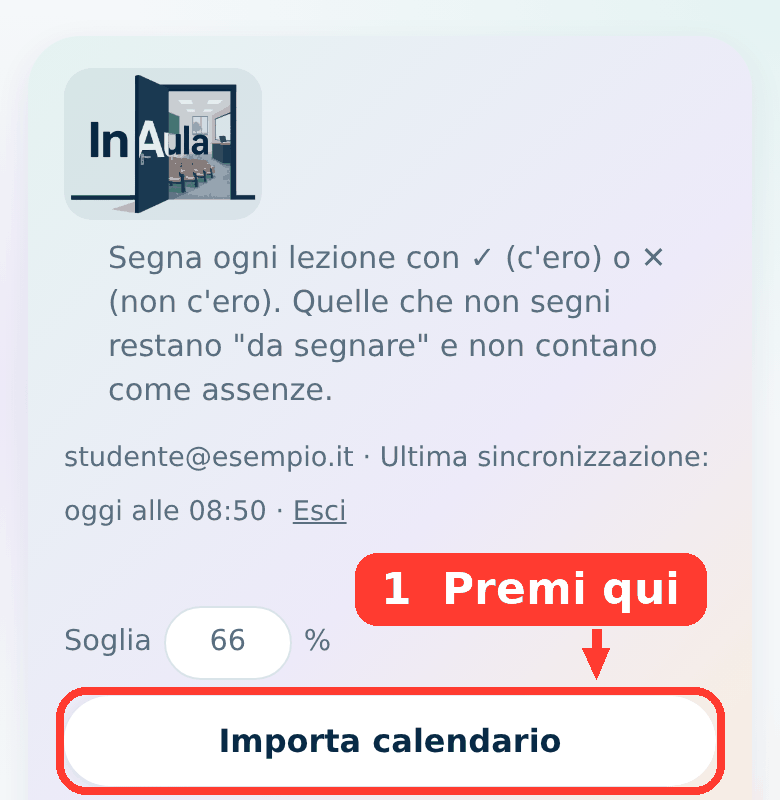
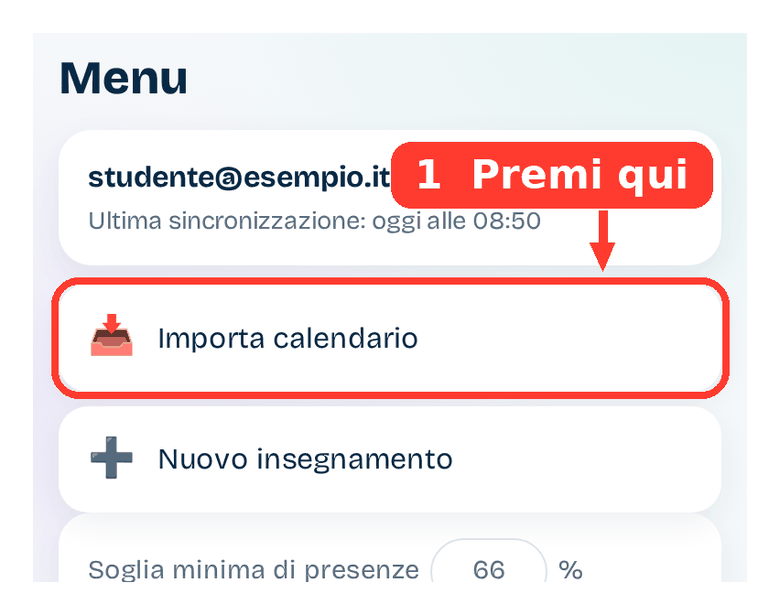
Add files via upload

Changed region(s): [[0.0308, 0.0309, 0.9538, 0.6797], [0.0615, 0.6797, 0.9846, 1.0], [0.7385, 0.0, 1.0, 0.3089]]

diff --git a/index.html b/index.html
@@ -3,6 +3,7 @@
 <head>
 <meta charset="utf-8">
 <meta name="robots" content="noindex,nofollow">
+<script>try{var t=localStorage.getItem("inaula-theme");if(t==="light"||t==="dark")document.documentElement.setAttribute("data-theme",t)}catch(e){}</script>
 <link rel="icon" type="image/png" sizes="192x192" href="icon-192.png">
 <link rel="apple-touch-icon" href="apple-touch-icon.png">
 <link rel="manifest" href="manifest.webmanifest">
@@ -105,7 +106,7 @@ label.ck{display:flex;align-items:center;gap:8px}label.ck input{width:auto}
 .row{display:flex;gap:8px;justify-content:flex-end;margin-top:14px;flex-wrap:wrap}
 .map{display:grid;gap:4px;padding:10px 0;border-top:1px solid var(--ln)}
 [hidden]{display:none!important}
-@media (max-width:520px){main{padding:18px 14px 130px}.bar{width:100%}.thr{flex:1 0 100%}.bar .btn{flex:1 1 auto}}
+@media (max-width:520px){main{padding:18px 14px 160px}.bar{width:100%}.thr{flex:1 0 100%}.bar .btn{flex:1 1 auto}}
 .loginbox{max-width:380px;margin-top:18px}
 .lnk{border:0;background:none;text-decoration:underline;padding:8px 0;color:var(--mu);cursor:pointer}
 body{background:var(--bgimg),var(--bg);background-attachment:fixed}
@@ -161,31 +162,85 @@ header{background:var(--hg);border-radius:26px;padding:16px 18px 18px;box-shadow
 dialog h4{margin:14px 0 4px;font-size:1rem}
 .rd{display:flex;gap:16px;flex-wrap:wrap;margin:6px 0}
 .rd label{margin:0;flex-direction:row}
+.hero .hi{font-size:1.6rem;font-weight:800;margin:6px 0 0}
+.hero .tag{margin:2px 0 4px;color:var(--mu)}
+.vt{margin:6px 0 10px;font-size:1.6rem;font-weight:800}
+.bar2{display:flex;gap:8px;flex-wrap:wrap;margin-bottom:8px}
+.mcard{background:var(--sf);border-radius:18px;padding:14px 16px;box-shadow:var(--sh);margin:0 0 10px}
+.menu{display:grid;gap:8px}
+.mi{display:flex;align-items:center;gap:12px;width:100%;text-align:left;background:var(--sf);border:0;border-radius:16px;padding:14px 16px;font:inherit;color:var(--ink);box-shadow:var(--sh);cursor:pointer}
+.mi i{font-style:normal;font-size:1.3rem}
+.mi[hidden]{display:none}
+.seg{display:flex;gap:4px;margin:0 0 12px;background:color-mix(in srgb,var(--mu) 13%,var(--sf));padding:4px;border-radius:999px}
+.seg button{flex:1;border:0;background:none;padding:8px 10px;border-radius:999px;font:inherit;font-weight:600;color:var(--mu);cursor:pointer}
+.seg button.on{background:var(--sf);color:var(--ink);box-shadow:var(--sh)}
+.dh{margin:14px 0 4px;font-size:.95rem;color:var(--mu);text-transform:capitalize}
+.wk{display:flex;justify-content:space-between;align-items:center;margin:0 0 6px}
+.wk .btn{padding:6px 16px}
+#nav{position:fixed;left:50%;transform:translateX(-50%);bottom:calc(10px + env(safe-area-inset-bottom,0px));width:min(520px,calc(100% - 20px));display:flex;justify-content:space-around;gap:4px;background:var(--sf);border-radius:24px;box-shadow:0 6px 24px rgba(11,43,74,.20);padding:6px;z-index:8}
+#nav button{flex:1;border:0;background:none;color:var(--mu);font:inherit;font-size:.72rem;padding:6px 2px;border-radius:18px;cursor:pointer;display:grid;gap:2px;justify-items:center}
+#nav button span{font-size:1.3rem;line-height:1}
+#nav button.on{background:color-mix(in srgb,#6DB3AB 24%,var(--sf));color:var(--ink);font-weight:700}
+.fabs{bottom:calc(88px + env(safe-area-inset-bottom,0px))}
+#toast{bottom:calc(88px + env(safe-area-inset-bottom,0px));right:150px}
+.foot{display:none}
+header.hero{display:block}
+.hero .brand{display:block}
 </style>
 </head>
 <body>
 <main id="app" hidden>
-<header>
-  <div>
-    <h1 class="brand"><img class="logo" src="logo.png" alt="InAula"></h1>
-    <p class="sub">Segna ogni lezione con ✓ (c'ero) o ✕ (non c'ero). Quelle che non segni restano "da segnare" e non contano come assenze.</p>
-    <p class="meta"><span id="who"></span> <span id="sync">Connessione…</span> · <button class="lnk" data-act="acct">Account</button> · <button class="lnk" id="out">Esci</button></p>
-  </div>
-  <div class="bar">
-    <label class="thr">Soglia <input id="thr" type="number" min="1" max="100" value="66"> %</label>
-    <button class="btn" data-act="imp">Importa calendario</button>
-    <button class="btn pri" data-act="new">Nuovo insegnamento</button>
-    <button class="btn" data-act="upd" id="updb" hidden>🔄 Aggiorna orario</button>
-  </div>
+<section id="v-home">
+<header class="hero">
+  <h1 class="brand"><img class="logo" src="logo.png" alt="InAula"></h1>
+  <p class="hi" id="hello">Ciao! 👋</p>
+  <p class="tag">Segna le lezioni a cui vai: al resto pensa InAula.</p>
+  <p class="meta"><span class="syn">Connessione…</span></p>
 </header>
+<div id="namecard"></div>
 <div id="warn"></div>
 <section class="today" id="today"></section>
+<div id="startcard"></div>
+<div class="fbcard"><div><b>💬 Cosa vorresti che InAula facesse per te?</b><br><span class="meta">Scrivi una funzione che ti sarebbe utile oppure segnala un problema: ti leggo davvero.</span></div><button class="btn pri" data-act="fb">Scrivi un messaggio</button></div>
+</section>
+<section id="v-courses" hidden>
+<h2 class="vt">Insegnamenti</h2>
+<div class="bar2"><button class="btn pri" data-act="new">Nuovo insegnamento</button><button class="btn" data-act="imp">Importa calendario</button></div>
 <p class="legend"><span><i style="background:conic-gradient(#6DB3AB,#A29CDB,#7FB0DC,#E2BC7C,#98C08E,#6DB3AB)"></i>Presenze (nel colore dell'insegnamento)</span><span><i style="background:var(--no)"></i>Assenze segnate</span><span><i style="background:var(--wa);opacity:.5"></i>Da segnare</span><span><i style="background:var(--rs)"></i>Lezioni restanti</span><span>La tacca sull'anello segna il minimo da raggiungere, arrotondato per eccesso.</span></p>
 <div class="grid" id="grid"></div>
 <div id="archive"></div>
-<div class="fbcard"><div><b>💬 Cosa vorresti che InAula facesse per te?</b><br><span class="meta">Scrivi una funzione che ti sarebbe utile oppure segnala un problema: ti leggo davvero.</span></div><button class="btn pri" data-act="fb">Scrivi un messaggio</button></div>
-<p class="foot"><button class="lnk" data-act="fb">Suggerimenti</button> · <button class="lnk" data-act="legal" data-s="p">Privacy</button> · <button class="lnk" data-act="legal" data-s="t">Termini</button> · <button class="lnk" data-act="legal" data-s="c">Contatti</button></p>
-<div class="fabs"><button class="fab fb" data-act="fb">💬 Scrivici</button><button class="fab" data-act="guide" aria-label="Apri la guida">? Guida</button></div>
+</section>
+<section id="v-menu" hidden>
+<h2 class="vt">Menu</h2>
+<div class="mcard"><b id="who"></b><br><span class="syn meta">Connessione…</span></div>
+<div class="menu">
+  <button class="mi" data-act="imp"><i>📥</i>Importa calendario</button>
+  <button class="mi" data-act="upd" id="updb" hidden><i>🔄</i>Aggiorna orario</button>
+  <button class="mi" data-act="new"><i>➕</i>Nuovo insegnamento</button>
+</div>
+<h3 class="dh">Impostazioni</h3>
+<div class="mcard">
+  <label class="thr">Soglia minima di presenze <input id="thr" type="number" min="1" max="100" value="66"> %</label>
+  <div class="meta" style="margin:10px 0 4px">Aspetto</div>
+  <div class="rd"><label class="ck"><input type="radio" name="thm" value="auto" checked> Automatico</label><label class="ck"><input type="radio" name="thm" value="light"> Chiaro</label><label class="ck"><input type="radio" name="thm" value="dark"> Scuro</label></div>
+</div>
+<div class="menu" style="margin-top:12px">
+  <button class="mi" data-act="acct"><i>👤</i>Il mio account</button>
+  <button class="mi" data-act="fb"><i>💬</i>Scrivici</button>
+  <button class="mi" data-act="guide"><i>❓</i>Guida</button>
+  <button class="mi" data-act="legal" data-s="p"><i>🔒</i>Privacy</button>
+  <button class="mi" data-act="legal" data-s="t"><i>📄</i>Termini e avvertenze</button>
+  <button class="mi" data-act="legal" data-s="c"><i>✉</i>Contatti</button>
+  <button class="mi" id="out"><i>🚪</i>Esci</button>
+</div>
+</section>
+<nav id="nav" aria-label="Navigazione principale">
+  <button data-act="tab" data-s="home" class="on"><span>🏠</span>Oggi</button>
+  <button data-act="tab" data-s="courses"><span>📚</span>Insegnamenti</button>
+  <button data-act="guide"><span>❓</span>Guida</button>
+  <button data-act="tab" data-s="menu"><span>☰</span>Menu</button>
+</nav>
+<div class="fabs"><button class="fab fb" data-act="fb">💬 Scrivici</button></div>
 </main>
 <main id="auth">
   <h1 class="brand"><img class="logo" src="logo.png" alt="InAula"></h1>
@@ -224,7 +279,7 @@ dialog h4{margin:14px 0 4px;font-size:1rem}
 <p><b>Dove sono i dati.</b> Sui server di Google situati negli Stati Uniti. Il trasferimento avviene con le garanzie previste dal GDPR offerte dal fornitore (per esempio le clausole contrattuali standard).</p>
 <p><b>Per quanto tempo.</b> Finché l'account esiste. Con "Elimina il mio account" cancelli account e dati; copie tecniche di sicurezza presso il fornitore possono restare per un breve periodo. Se il servizio dovesse chiudere ti verrà dato un avviso e potrai scaricare i tuoi dati.</p>
 <p><b>I tuoi diritti.</b> Accesso, rettifica, cancellazione, limitazione, portabilità e opposizione. Molti li eserciti da solo dal menu <b>Account</b> (modifica il nome, scarica i tuoi dati, elimina l'account); per gli altri scrivi a <span class="ce"></span>. Puoi anche presentare reclamo al Garante per la protezione dei dati personali (garanteprivacy.it).</p>
-<p><b>Cookie e tecnologie simili.</b> InAula usa solo strumenti tecnici necessari: la memoria del browser per mantenere l'accesso (se scegli "Ricordami") e una copia locale dei tuoi dati per usare il sito anche senza rete. Nessun cookie di profilazione o di statistica. Il carattere del sito è ospitato dal sito stesso, non viene caricato da servizi esterni.</p>
+<p><b>Cookie e tecnologie simili.</b> InAula usa solo strumenti tecnici necessari: la memoria del browser per mantenere l'accesso (se scegli "Ricordami") una copia locale dei tuoi dati per usare il sito anche senza rete e la tua preferenza di aspetto (chiaro o scuro). Nessun cookie di profilazione o di statistica. Il carattere del sito è ospitato dal sito stesso, non viene caricato da servizi esterni.</p>
 <p><b>Chi può usarlo.</b> Il servizio è destinato a studenti maggiorenni.</p>
 </div></details>
 <details class="gs" id="ls_t"><summary>Termini e avvertenze</summary><div class="gb">
@@ -247,6 +302,7 @@ dialog h4{margin:14px 0 4px;font-size:1rem}
 <dialog id="gd" class="sheet" aria-labelledby="gdt">
 <div class="gh"><h2 id="gdt">Guida</h2><button class="btn" data-act="gclose">Chiudi</button></div>
 <div class="gc">
+<div class="tl"><b>La barra in basso:</b> <b>Oggi</b> (le lezioni di oggi, domani e della settimana), <b>Insegnamenti</b> (le schede con grafico e simulatore), <b>Guida</b> e <b>Menu</b> (importa, aggiorna orario, impostazioni, account).</div>
 <div class="tl"><b>In breve:</b> 1) copi il link dell'orario dal sito dell'università · 2) lo incolli in InAula · 3) segni ✓ le lezioni a cui vai. Il resto lo calcola il sito.</div>
 
 <details class="gs" id="gs1" open><summary>1. Copiare il link dell'orario</summary><div class="gb">
@@ -268,7 +324,7 @@ dialog h4{margin:14px 0 4px;font-size:1rem}
 
 <details class="gs" id="gs2"><summary>2. Importare il calendario in InAula</summary><div class="gb">
 <ol class="st">
-<li>Premi <b>Importa calendario</b> in alto.<img class="gimg" src="guida-5.png" width="780" height="800" alt="Intestazione di InAula con il pulsante Importa calendario evidenziato" loading="lazy"></li>
+<li>Apri il <b>Menu</b> (in basso a destra) e premi <b>Importa calendario</b>.<img class="gimg" src="guida-5.png" width="780" height="615" alt="Menu di InAula con il pulsante Importa calendario evidenziato" loading="lazy"></li>
 <li>Nella finestra che si apre segui i numeri:<img class="gimg" src="guida-6.png" width="780" height="1566" alt="Finestra Importa calendario con quattro punti numerati" loading="lazy">
 <ol class="sub"><li><b>Incolla il link</b> copiato dall'università: si legge da solo. (Se non parte, premi <b>Leggi il link</b>.)</li>
 <li>Scegli come contare la frequenza: <b>per insegnamento intero</b> (la soglia vale sul totale dei moduli) oppure <b>per singoli moduli</b> (ogni modulo ha la sua soglia).</li>
@@ -278,15 +334,15 @@ dialog h4{margin:14px 0 4px;font-size:1rem}
 </ol>
 <div class="note"><b>Come scegliere?</b> Guarda nel regolamento del tuo corso, alla voce frequenza obbligatoria: dice se la percentuale è sull'insegnamento o sul modulo, e sulle ore o sulle lezioni. Se tutte le lezioni durano uguale, lezioni e ore danno lo stesso risultato.</div>
 <div class="note">Importare lo stesso orario due volte non crea doppioni.</div>
-<div class="note"><b>Ricorda il link:</b> lasciando la spunta "Ricorda il link", in alto compare <b>🔄 Aggiorna orario</b> per rileggere l'orario quando l'università lo cambia (vedi sezione 5).</div>
+<div class="note"><b>Ricorda il link:</b> lasciando la spunta "Ricorda il link", nel <b>Menu</b> compare <b>🔄 Aggiorna orario</b> per rileggere l'orario quando l'università lo cambia (vedi sezione 5).</div>
 </div></details>
 
 <details class="gs" id="gs3"><summary>3. Segnare le presenze e vedere le lezioni di oggi</summary><div class="gb">
 <p>Accanto a ogni lezione ci sono due pulsanti: <b>✓</b> (c'ero) e <b>✕</b> (non c'ero). Toccane uno per segnare la lezione; toccalo di nuovo per togliere il segno.</p>
-<img class="gimg" src="guida-7.png" width="780" height="925" alt="Vista Oggi con le lezioni della giornata e i pulsanti presente e assente evidenziati" loading="lazy">
-<ol class="sub"><li><b>✓</b> = ero presente.</li><li><b>✕</b> = ero assente.</li></ol>
-<ul class="sub"><li><b>Oggi</b>, in alto, mostra le lezioni della giornata: le segni da lì. <b>Sono presente a tutte quelle di oggi</b> le segna in un colpo solo.</li>
-<li>In <b>Oggi</b> vedi anche l'<b>aula</b> e i <b>docenti</b> di ogni lezione, se sono indicati nel calendario.</li>
+<img class="gimg" src="guida-7.png" width="780" height="986" alt="Schermata Oggi con le lezioni della giornata, i pulsanti presente e assente e il selettore del periodo evidenziati" loading="lazy">
+<ol class="sub"><li><b>✓</b> = ero presente.</li><li><b>✕</b> = ero assente.</li><li><b>Oggi · Domani · Settimana</b>: scegli il periodo da guardare.</li></ol>
+<ul class="sub"><li>La schermata <b>Oggi</b> (in basso a sinistra) mostra le lezioni della giornata: le segni da lì. <b>Sono presente a tutte quelle di oggi</b> le segna in un colpo solo. Con <b>Domani</b> e <b>Settimana</b> guardi i giorni successivi.</li>
+<li>Vedi anche l'<b>aula</b> e i <b>docenti</b> di ogni lezione, se sono indicati nel calendario.</li>
 <li>Le lezioni che non segni <b>non contano come assenze</b>: quelle già finite compaiono come <b>da segnare</b>, con un promemoria in alto.</li>
 <li>Hai iniziato a usare InAula a metà semestre? Apri <b>Lezioni</b> e premi <b>Segna presenti le … passate da segnare</b>, poi correggi con ✕ quelle a cui non c'eri.</li>
 <li>Toccato per sbaglio? Per qualche secondo compare <b>Annulla</b> in basso.</li></ul>
@@ -298,11 +354,11 @@ dialog h4{margin:14px 0 4px;font-size:1rem}
 <li><b>Il messaggio</b> dice quante assenze ti restano (contano solo quelle che hai segnato con ✕). Verde: sei tranquillo. Marrone: te ne restano pochissime (2 lezioni o meno). Rosso: la soglia non è più raggiungibile.</li>
 <li><b>I numeri</b>: presenze segnate e minimo richiesto, assenze segnate e massimo consentito, lezioni ancora da segnare.</li>
 <li><b>Simulatore</b>: risponde a "Posso saltare la prossima lezione?", "Quante ne posso ancora saltare?" e "Se frequento tutte le prossime, a quanto arrivo?".</li></ol>
-<p>In alto compare un riquadro con gli insegnamenti a rischio. La percentuale minima (66%) si cambia accanto a "Soglia", in alto. Il minimo è sempre arrotondato per eccesso. Il colore di ogni insegnamento si sceglie da <b>Modifica</b>.</p>
+<p>In <b>Oggi</b> compare un riquadro con gli insegnamenti a rischio. La percentuale minima (66%) si cambia da <b>Menu</b>, alla voce "Soglia". Il minimo è sempre arrotondato per eccesso. Il colore di ogni insegnamento si sceglie da <b>Modifica</b>.</p>
 </div></details>
 
 <details class="gs" id="gs5"><summary>5. Modificare o spostare una lezione</summary><div class="gb">
-<p><b>Se è l'università a cambiare l'orario</b>, premi <b>🔄 Aggiorna orario</b> (in alto, appare se hai lasciato la spunta "Ricorda il link"): InAula confronta il calendario con il tuo e ti mostra le lezioni <b>nuove</b>, <b>spostate</b> o <b>non più in calendario</b>. Scegli tu cosa applicare, e le presenze che hai già segnato restano. Una volta al giorno, quando apri il sito, controlla da solo e ti avvisa.</p>
+<p><b>Se è l'università a cambiare l'orario</b>, premi <b>🔄 Aggiorna orario</b> (nel <b>Menu</b>, appare se hai lasciato la spunta "Ricorda il link"): InAula confronta il calendario con il tuo e ti mostra le lezioni <b>nuove</b>, <b>spostate</b> o <b>non più in calendario</b>. Scegli tu cosa applicare, e le presenze che hai già segnato restano. Una volta al giorno, quando apri il sito, controlla da solo e ti avvisa.</p>
 <p>Se invece è un cambio solo tuo, apri l'elenco con <b>Lezioni</b> e usa:</p>
 <img class="gimg" src="guida-9.png" width="780" height="1260" alt="Elenco delle lezioni con il pulsante modifica e il pulsante Aggiungi lezione evidenziati" loading="lazy">
 <ol class="sub"><li><b>✎</b> per cambiare data e orario (poi Salva). Nella stessa finestra puoi anche scrivere l'<b>aula</b>, i <b>docenti</b> e una <b>nota</b> per quella lezione (per esempio "portare il camice"), oppure <b>eliminare</b> la lezione: se ti sbagli, subito dopo compare <b>Annulla</b>.</li>
@@ -324,23 +380,23 @@ dialog h4{margin:14px 0 4px;font-size:1rem}
 
 <details class="gs" id="gs7"><summary>7. Account, privacy e dati</summary><div class="gb">
 <ul class="sub"><li><b>Accesso:</b> email e password. Sul tuo telefono o computer lascia la spunta "Ricordami"; su un computer condiviso toglila e premi sempre <b>Esci</b>. <b>Password dimenticata?</b> è sotto il pulsante Accedi.</li>
-<li><b>Account</b> (in alto, accanto a Esci): puoi cambiare il nome, la password e l'email, <b>scaricare una copia dei tuoi dati</b> oppure <b>eliminare il tuo account</b> con tutti i tuoi dati (serve la password e l'operazione non si annulla).</li>
+<li><b>Account</b> (nel <b>Menu</b>): puoi cambiare il nome, la password e l'email, <b>scaricare una copia dei tuoi dati</b> oppure <b>eliminare il tuo account</b> con tutti i tuoi dati (serve la password e l'operazione non si annulla).</li>
 <li><b>Ognuno vede solo i propri dati</b>: gli altri utenti non possono vedere le tue presenze.</li>
 <li>Il sito salva solo il tuo nome, la tua email e i dati che inserisci, su server Google (Firebase) che possono trovarsi anche fuori dall'Unione Europea. Il link dell'orario viene salvato solo se lasci la spunta "Ricorda il link" (per usare <b>Aggiorna orario</b>): lo scolleghi da Account. Per leggerlo il sito può passare da un servizio di appoggio gratuito, che non conserva niente.</li>
-<li>In fondo alla pagina trovi <b>Privacy</b>, <b>Termini</b> e <b>Contatti</b>. InAula è uno strumento personale e non ufficiale: fanno fede solo i registri delle presenze dell'università.</li>
+<li>Nel <b>Menu</b> trovi <b>Privacy</b>, <b>Termini</b> e <b>Contatti</b>. InAula è uno strumento personale e non ufficiale: fanno fede solo i registri delle presenze dell'università.</li>
 <li>Puoi usare lo stesso account da telefono e computer: i dati si sincronizzano. Sull'iPhone il collegamento in Home ti chiede l'accesso la prima volta.</li></ul>
 </div></details>
 
 <details class="gs" id="gs8"><summary>8. Domande frequenti</summary><div class="gb">
-<details class="q"><summary>Come scrivo un suggerimento o segnalo un problema?</summary><p>Premi <b>💬 Scrivici</b> in basso a destra, oppure la scheda "Scrivi un messaggio" in fondo alla pagina. Il messaggio arriva direttamente a chi gestisce InAula.</p></details>
+<details class="q"><summary>Come scrivo un suggerimento o segnalo un problema?</summary><p>Premi <b>💬 Scrivici</b> in basso a destra (o dal <b>Menu</b>). Il messaggio arriva direttamente a chi gestisce InAula.</p></details>
 <details class="q"><summary>Non vedo aula e docenti</summary><p>Importa di nuovo il calendario (incolla il link): le lezioni già presenti vengono aggiornate con aula e docenti, senza duplicati.</p></details>
 <details class="q"><summary>Il link non viene letto</summary><p>Controlla di aver copiato tutto il link (inizia con https://). Se non funziona, usa il file .ics dal computer (sezione 1).</p></details>
 <details class="q"><summary>Mancano delle lezioni</summary><p>Controlla che la data di inizio del link fosse giusta (sezione 1). Le lezioni mancanti si aggiungono a mano con "Aggiungi lezione".</p></details>
 <details class="q"><summary>Gli orari sono sfasati di un'ora</summary><p>Controlla che l'ora e il fuso orario del telefono o del computer siano quelli italiani.</p></details>
 <details class="q"><summary>Ho importato per sbaglio o ho troppi insegnamenti</summary><p>Apri <b>Modifica</b> sull'insegnamento e premi <b>Elimina</b> (due clic). Poi importa di nuovo scegliendo l'opzione giusta.</p></details>
-<details class="q"><summary>L'università ha cambiato l'orario</summary><p>Premi <b>🔄 Aggiorna orario</b> in alto (se non lo vedi, incolla di nuovo il link in Importa calendario lasciando la spunta "Ricorda il link"). Se preferisci fare a mano: incolla di nuovo il link in Importa calendario: le lezioni nuove si aggiungono. Quelle tolte o spostate vanno eliminate a mano con ✕.</p></details>
+<details class="q"><summary>L'università ha cambiato l'orario</summary><p>Premi <b>🔄 Aggiorna orario</b> nel <b>Menu</b> (se non lo vedi, incolla di nuovo il link in Importa calendario lasciando la spunta "Ricorda il link"). Se preferisci fare a mano: incolla di nuovo il link in Importa calendario: le lezioni nuove si aggiungono. Quelle tolte o spostate vanno eliminate a mano con ✕.</p></details>
 <details class="q"><summary>Mi chiede sempre la password</summary><p>Non usare la finestra privata, lascia la spunta "Ricordami" e non premere Esci se non serve.</p></details>
-<details class="q"><summary>La mia soglia non è il 66%</summary><p>Cambia il numero accanto a "Soglia" in alto nella pagina.</p></details>
+<details class="q"><summary>La mia soglia non è il 66%</summary><p>Cambia il numero alla voce "Soglia" nel <b>Menu</b>.</p></details>
 </div></details>
 </div>
 </dialog>
@@ -366,7 +422,7 @@ const canon=v=>JSON.stringify(v,(k,x)=>x&&typeof x==='object'&&!Array.isArray(x)
 const SYNC={ok:'Sincronizzato',pending:'Salvataggio…',off:'Offline: le modifiche partiranno appena torni online',err:'Sincronizzazione non riuscita, riprovo…'};
 let lastSync=null;
 const fmtLast=d=>{const t=new Date(),y=new Date(t);y.setDate(t.getDate()-1);const hh=String(d.getHours()).padStart(2,'0')+':'+String(d.getMinutes()).padStart(2,'0');return d.toDateString()===t.toDateString()?`oggi alle ${hh}`:d.toDateString()===y.toDateString()?`ieri alle ${hh}`:`${d.toLocaleDateString('it-IT',{day:'numeric',month:'short'})} alle ${hh}`};
-const setSync=k=>{const e=document.getElementById('sync');if(!e)return;if(k==='ok')lastSync=new Date();const ls=lastSync?` Ultima sincronizzazione: ${fmtLast(lastSync)}.`:'';e.textContent=k==='ok'?`Ultima sincronizzazione: ${fmtLast(lastSync)}`:SYNC[k]+(k==='pending'?'':ls)};
+const setSync=k=>{const els=document.querySelectorAll('.syn');if(!els.length)return;if(k==='ok')lastSync=new Date();const ls=lastSync?` Ultima sincronizzazione: ${fmtLast(lastSync)}.`:'';const tx=k==='ok'?`Ultima sincronizzazione: ${fmtLast(lastSync)}`:SYNC[k]+(k==='pending'?'':ls);els.forEach(e=>{e.textContent=tx})};
 function save(){if(!ref)return;dirty=true;clearTimeout(timer);timer=setTimeout(flush,400);setSync('pending')}
 async function flush(){
   if(writing||!dirty||!ref)return;
@@ -457,22 +513,43 @@ ${arch||!k.T?'':`<details class="sim" data-c="${c.id}"${openSet.has('s'+c.id)?' 
 <div class="add"><input type="date" class="nd" aria-label="Data"><input type="time" class="ns" aria-label="Inizio"><input type="time" class="ne" aria-label="Fine"><button class="btn" data-act="add" data-c="${c.id}">Aggiungi lezione</button></div></details>
 </article>`;
 }
+const mondayOf=d=>{const x=new Date(d);x.setDate(x.getDate()-((x.getDay()+6)%7));return x};
+const lessonsOn=ds=>{const it=[];S.courses.forEach(c=>{if(!c.arch)c.lessons.forEach(l=>{if(l.d===ds)it.push({c,l})})});return it.sort((a,b)=>(a.l.s||'').localeCompare(b.l.s||''))};
+function dayRow({c,l},now){const x=sx(l),pend=x===0&&ended(l,now);
+  return`<li data-c="${c.id}" data-l="${l.id}" style="--cc:${cc(c)}"><span class="mk"><button class="pb${x===1?' on':''}" data-act="mp" data-c="${c.id}" data-l="${l.id}" aria-pressed="${x===1}" aria-label="Presente">✓</button><button class="ab${x===2?' on':''}" data-act="ma" data-c="${c.id}" data-l="${l.id}" aria-pressed="${x===2}" aria-label="Assente">✕</button></span><span class="lt"><b>${esc(c.name)}</b> ${l.s?`<small class="t">${l.s}${l.e?'–'+l.e:''}</small>`:''} ${l.m?`<small>${esc(l.m)}</small>`:''}${pend?' <small class="pend">da segnare</small>':''}${meta2(l,true)}</span></li>`}
 function renderTop(){
-  const now=new Date(),td=ymd(now),items=[],w=[];
+  const now=new Date(),td=ymd(now),w=[];
   for(const c of S.courses){
     if(c.arch)continue;
-    c.lessons.forEach(l=>{if(l.d===td)items.push({c,l})});
     const k=calc(c);
     if(k.T&&k.P<k.M&&k.margin<=k.warn)w.push(`<div>⚠ <b>${esc(c.name)}</b>: ${status(k).t.toLowerCase()}</div>`);
   }
-  items.sort((a,b)=>(a.l.s||'').localeCompare(b.l.s||''));
   let pend=0;S.courses.forEach(c=>{if(!c.arch)pend+=c.lessons.filter(l=>sx(l)===0&&ended(l,now)).length});
   $('warn').innerHTML=(w.length?`<div class="warn">${w.join('')}</div>`:'')+(pend?`<div class="warn" style="margin-top:8px">📝 Hai <b>${pend}</b> ${pend===1?'lezione passata':'lezioni passate'} da segnare.</div>`:'')+(updDiff&&updDiff.items.some(x=>x.t!=='inf')?`<div class="warn" style="margin-top:8px">🔄 L'università ha modificato l'orario (${updDiff.items.filter(x=>x.t!=='inf').length} differenze). <button class="btn" data-act="upd" data-s="rev" style="margin-left:6px">Rivedi</button></div>`:'');
-  const rows=items.map(({c,l})=>{const x=sx(l),pend=x===0&&ended(l,now);
-    return`<li data-c="${c.id}" data-l="${l.id}" style="--cc:${cc(c)}"><span class="mk"><button class="pb${x===1?' on':''}" data-act="mp" data-c="${c.id}" data-l="${l.id}" aria-pressed="${x===1}" aria-label="Presente">✓</button><button class="ab${x===2?' on':''}" data-act="ma" data-c="${c.id}" data-l="${l.id}" aria-pressed="${x===2}" aria-label="Assente">✕</button></span><span class="lt"><b>${esc(c.name)}</b> ${l.s?`<small class="t">${l.s}${l.e?'–'+l.e:''}</small>`:''} ${l.m?`<small>${esc(l.m)}</small>`:''}${pend?' <small class="pend">da segnare</small>':''}${meta2(l,true)}</span></li>`}).join('');
-  const nT=items.filter(({l})=>sx(l)===0).length;
-  $('today').innerHTML=`<h2>📅 Oggi, ${now.toLocaleDateString('it-IT',{weekday:'long',day:'numeric',month:'long'})}</h2>`+(items.length?`<ul class="ls">${rows}</ul>${nT?`<button class="btn" data-act="bt" style="margin:4px 0 8px">Sono presente a tutte quelle di oggi (${nT})</button>`:''}`:'<p class="meta">Oggi non ci sono lezioni in calendario.</p>');
+  $('hello').textContent=S.name?`Ciao ${S.name.replace(/[.!\s]+$/,'')}! 👋`:'Ciao! 👋';
+  const showName=loaded&&!S.name&&!nameSkip,nc=$('namecard');
+  if(nc.dataset.on!==String(showName)){nc.dataset.on=String(showName);nc.innerHTML=showName?`<div class="fbcard" style="margin:0 0 10px"><div><b>Come ti chiami?</b><br><span class="meta">Così posso salutarti per nome.</span></div><div style="display:flex;gap:8px;flex-wrap:wrap"><input id="nn" maxlength="40" placeholder="Il tuo nome" autocomplete="given-name" style="width:160px"><button class="btn pri" data-act="nsave">Salva</button><button class="lnk" data-act="nskip">Non ora</button></div></div>`:''}
+  $('startcard').innerHTML=(loaded&&!S.courses.length)?START:'';
+  const dfmt=(d,o)=>d.toLocaleDateString('it-IT',o);let head,body='';
+  if(homeMode==='sett'){
+    const mon=mondayOf(now);mon.setDate(mon.getDate()+7*weekOff);
+    const days=[...Array(7)].map((_,i)=>{const d=new Date(mon);d.setDate(mon.getDate()+i);return d});
+    head=`<div class="wk"><button class="btn" data-act="wk" data-s="-1" aria-label="Settimana precedente">‹</button><b>${dfmt(days[0],{day:'numeric',month:'short'})} – ${dfmt(days[6],{day:'numeric',month:'short'})}</b><button class="btn" data-act="wk" data-s="1" aria-label="Settimana successiva">›</button></div>${weekOff?'<p style="margin:0 0 4px"><button class="lnk" data-act="wk" data-s="0" style="padding:0">Torna a questa settimana</button></p>':''}`;
+    let any=false;
+    days.forEach(d=>{const ds=ymd(d),it=lessonsOn(ds);if(!it.length)return;any=true;body+=`<h3 class="dh">${dfmt(d,{weekday:'long',day:'numeric',month:'long'})}${ds===td?' · oggi':''}</h3><ul class="ls">${it.map(x=>dayRow(x,now)).join('')}</ul>`});
+    if(!any)body='<p class="meta">Nessuna lezione in questa settimana.</p>';
+  }else{
+    const d=new Date(now);if(homeMode==='domani')d.setDate(d.getDate()+1);
+    const it=lessonsOn(ymd(d)),nT=it.filter(({l})=>sx(l)===0).length;
+    head=`<h2>${homeMode==='oggi'?'📅 Oggi, ':'Domani, '}${dfmt(d,{weekday:'long',day:'numeric',month:'long'})}</h2>`;
+    body=it.length?`<ul class="ls">${it.map(x=>dayRow(x,now)).join('')}</ul>${homeMode==='oggi'&&nT?`<button class="btn" data-act="bt" style="margin:4px 0 8px">Sono presente a tutte quelle di oggi (${nT})</button>`:''}`:`<p class="meta">${homeMode==='oggi'?'Oggi':'Domani'} non ci sono lezioni in calendario.</p>`;
+  }
+  const seg=`<div class="seg" role="group" aria-label="Periodo">${[['oggi','Oggi'],['domani','Domani'],['sett','Settimana']].map(([k,t])=>`<button data-act="hm" data-s="${k}" class="${homeMode===k?'on':''}">${t}</button>`).join('')}</div>`;
+  $('today').innerHTML=seg+head+body;
 }
+function showTab(t){tab=t;['home','courses','menu'].forEach(k=>{$('v-'+k).hidden=k!==t});document.querySelectorAll('#nav [data-act="tab"]').forEach(b=>b.classList.toggle('on',b.dataset.s===t));window.scrollTo(0,0)}
+const START=`<div class="empty start"><h2>Inizia da qui</h2><ol><li>Copia il link dell'orario dal sito dell'università <button class="lnk" data-act="guide" data-s="1" style="padding:0">come si fa?</button></li><li>Premi <b>Importa calendario</b> e incolla il link</li><li>Segna ✓ le lezioni a cui vai: il resto lo calcola InAula</li></ol><div class="bar"><button class="btn pri" data-act="guide" data-s="1">Apri la guida</button><button class="btn" data-act="imp">Importa calendario</button><button class="btn" data-act="new">Nuovo insegnamento</button></div></div>`;
+function setTheme(v){try{v==='auto'?localStorage.removeItem('inaula-theme'):localStorage.setItem('inaula-theme',v)}catch(e){}if(v==='auto')document.documentElement.removeAttribute('data-theme');else document.documentElement.setAttribute('data-theme',v)}
 const PAL=[['Verde acqua','#6DB3AB'],['Lilla','#A29CDB'],['Azzurro','#7FB0DC'],['Sabbia','#E2BC7C'],['Salvia','#98C08E'],['Orchidea','#BE9BD6'],['Pesca','#E0A48F'],['Ardesia','#8FB0BF']];
 function nextColor(){const n=PAL.map(()=>0);S.courses.forEach(c=>{if(n[c.ci]!==undefined)n[c.ci]++});return n.indexOf(Math.min(...n))}
 function ensureColors(){let ch=false;S.courses.forEach(c=>{if(!PAL[c.ci]){c.ci=nextColor();ch=true}});if(ch)save()}
@@ -485,7 +562,7 @@ function render(){
   $('thr').value=S.thr;renderTop();
   const act=S.courses.filter(c=>!c.arch),arc=S.courses.filter(c=>c.arch);
   $('archive').innerHTML=arc.length?`<details class="archv"${archOpen?' open':''}><summary>🗂 Archivio (${arc.length})</summary><div class="grid">${arc.map(card).join('')}</div></details>`:'';
-  $('grid').innerHTML=act.length?act.map(card).join(''):arc.length?`<div class="empty"><p>Nessun insegnamento attivo.<br>Importa il calendario del nuovo semestre o aggiungine uno.</p><div class="bar"><button class="btn pri" data-act="imp">Importa calendario</button><button class="btn" data-act="new">Nuovo insegnamento</button></div></div>`:`<div class="empty start"><h2>Inizia da qui</h2><ol><li>Copia il link dell'orario dal sito dell'università <button class="lnk" data-act="guide" data-s="1" style="padding:0">come si fa?</button></li><li>Premi <b>Importa calendario</b> e incolla il link</li><li>Segna ✓ le lezioni a cui vai: il resto lo calcola InAula</li></ol><div class="bar"><button class="btn pri" data-act="guide" data-s="1">Apri la guida</button><button class="btn" data-act="imp">Importa calendario</button><button class="btn" data-act="new">Nuovo insegnamento</button></div></div>`;
+  $('grid').innerHTML=act.length?act.map(card).join(''):arc.length?`<div class="empty"><p>Nessun insegnamento attivo.<br>Importa il calendario del nuovo semestre o aggiungine uno.</p></div>`:START;
 }
 function renderCard(id){
   const el=document.querySelector(`[data-card="${id}"]`);if(!el)return render();
@@ -560,7 +637,7 @@ function parseICS(t){
 const SM=new Set(['e','ed','di','del','della','dello','dell','dei','degli','delle','da','in','con','per','a','al','alla','ai','nel','nella','sul']);
 const nice=s=>s!==s.toUpperCase()?s:s.replace(/\p{L}+/gu,(w,i)=>{const l=w.toLowerCase();if(SM.has(l)&&i>0)return l;if(w.length<=3&&!SM.has(l))return w;return w[0]+l.slice(1)});
 const grp=(x,by)=>{const i=by?x.n.indexOf(' - '):-1;return i>0?{g:x.n.slice(0,i).trim(),m:x.n.slice(i+3).trim()}:{g:x.n,m:''}};
-let icsText='',srcLink='',curBy=true,updDiff=null,daily=false;
+let icsText='',srcLink='',curBy=true,updDiff=null,daily=false,loaded=false,nameSkip=false,homeMode='oggi',weekOff=0,tab='home';
 function archCands(){
   const touched=new Set();
   document.querySelectorAll('select[data-i]').forEach(s=>{if(s.value!=='skip'&&s.value!=='new')touched.add(s.value)});
@@ -635,7 +712,7 @@ function dlData(){
 }
 async function acctAct(a){
   try{
-    if(a==='savename'){S.name=$('an').value.trim().slice(0,40);save();amsg('Nome salvato.',1)}
+    if(a==='savename'){S.name=$('an').value.trim().slice(0,40);save();renderTop();amsg('Nome salvato.',1)}
     else if(a==='dld'){dlData();amsg('Download avviato.',1)}
     else if(a==='chpw'){const p0=$('cp0').value,p1=$('cp1').value;if(!p0||p1.length<6)return amsg('Inserisci la password attuale e una nuova password di almeno 6 caratteri.');await reauth(p0);await updatePassword(auth.currentUser,p1);$('cp0').value=$('cp1').value='';amsg('Password cambiata.',1)}
     else if(a==='chem'){const p0=$('ce0').value,e1=$('ce1').value.trim();if(!p0||!e1)return amsg('Inserisci la password attuale e la nuova email.');await reauth(p0);await verifyBeforeUpdateEmail(auth.currentUser,e1);amsg('Ti ho inviato una email di conferma al nuovo indirizzo: la email cambia dopo che clicchi il link (controlla anche lo spam).',1)}
@@ -782,11 +859,16 @@ document.addEventListener('click',e=>{
     const name=$('fn').value.trim();if(!name){$('fn').focus();return}
     const v={name,cfu:+$('fc').value||0,annual:$('fa').checked,total:+$('ft').value||0,unit:$('fu').value,hd:+$('fd').value||2,ci:+(document.querySelector('input[name=fcol]:checked')||{value:0}).value};
     if(c)Object.assign(c,v);else S.courses.push({id:uid(),...v,lessons:[]});
-    save();dlg.close();render();
+    save();dlg.close();render();if(!c)showTab('courses');
   }
   else if(a==='lnk')readLink();
   else if(a==='fb'){feedbackDlg(b.dataset.s);if(!dlg.open)dlg.showModal()}
   else if(a==='fsend')sendFb();
+  else if(a==='tab')showTab(b.dataset.s)
+  else if(a==='hm'){homeMode=b.dataset.s;renderTop()}
+  else if(a==='wk'){weekOff=b.dataset.s==='0'?0:weekOff+ +b.dataset.s;renderTop()}
+  else if(a==='nsave'){const v=$('nn').value.trim().slice(0,40);if(v){S.name=v;save();renderTop()}}
+  else if(a==='nskip'){nameSkip=true;renderTop()}
   else if(a==='upd'){if(b.dataset.s==='rev'&&updDiff)renderUpd();else updateNow()}
   else if(a==='upapply'){const sel=new Set([...dlg.querySelectorAll('input[data-u]:checked')].map(x=>+x.dataset.u));dlg.close();applyUpd(sel)}
   else if(a==='unlink'){S.lk=null;updDiff=null;S.courses.forEach(c=>{delete c.gk});save();render();amsg('Orario scollegato.',1)}
@@ -816,7 +898,7 @@ document.addEventListener('click',e=>{
     });
     toArc.forEach(c=>{c.arch=true});
     if(linkOn)S.lk={u:srcLink,by:curBy,t:ymd(new Date())};
-    save();render();pending=null;
+    save();render();pending=null;showTab('courses');
     $('imp').innerHTML=`<p><b>Importate ${add} lezioni.</b>${linkOn?' Link ricordato: ora puoi usare <b>Aggiorna orario</b>.':''}${enr?` Aggiornate ${enr} lezioni con aula e docenti.`:''}${toArc.length?` Archiviati ${toArc.length} insegnamenti.`:''} Puoi chiudere questa finestra.</p>`;
   }
 });
@@ -826,6 +908,7 @@ document.addEventListener('paste',e=>{if(e.target.id==='il')setTimeout(readLink,
 document.addEventListener('change',e=>{
   const t=e.target;
   if(t.id==='thr'){S.thr=Math.min(100,Math.max(1,Math.round(+t.value)||66));save();render()}
+  else if(t.name==='thm')setTheme(t.value)
   else if(t.id==='ff'&&t.files[0]){srcLink='';t.files[0].text().then(showMap)}
   else if(t.id==='ft2'){srcLink='';showMap(t.value)}
   else if(t.dataset&&t.dataset.i!==undefined)refreshArch();
@@ -874,15 +957,16 @@ onAuthStateChanged(auth,u=>{
   if(unsub){unsub();unsub=null}
   ref=null;dirty=false;clearTimeout(timer);
   $('auth').hidden=!!u;$('app').hidden=!u;
-  if(!u){S={thr:66,courses:[]};return}
-  $('who').textContent=u.email+' ·';
+  if(!u){S={thr:66,courses:[]};loaded=false;return}
+  $('who').textContent=u.email;
   ref=doc(fs,'users',u.uid);setSync('pending');
   unsub=onSnapshot(ref,{includeMetadataChanges:true},sn=>{
     const pend=dirty||writing||sn.metadata.hasPendingWrites;
-    if(!pend){if(sn.exists())adopt(sn.data());else{S={thr:66,courses:[]};render()}if(sn.exists()&&!daily&&!sn.metadata.fromCache){daily=true;setTimeout(checkDaily,1200)}}
+    if(!pend){if(sn.exists())adopt(sn.data());else{S={thr:66,courses:[]};render()}if(sn.exists()&&!daily&&!sn.metadata.fromCache){daily=true;setTimeout(checkDaily,1200)}if(sn.exists()&&!loaded){loaded=true;renderTop()}}
     setSync(pend?'pending':(sn.metadata.fromCache?'off':'ok'));
   },()=>setSync('err'));
 });
+(()=>{let v='auto';try{v=localStorage.getItem('inaula-theme')||'auto'}catch(e){}const r=document.querySelector(`input[name=thm][value=${v}]`);if(r)r.checked=true})();
 document.querySelectorAll('.ce').forEach(e=>{e.innerHTML=CONTACT_EMAIL?`<a href="mailto:${CONTACT_EMAIL}">${CONTACT_EMAIL}</a>`:'<i>(indirizzo email in arrivo)</i>'});
 render();
 </script>
